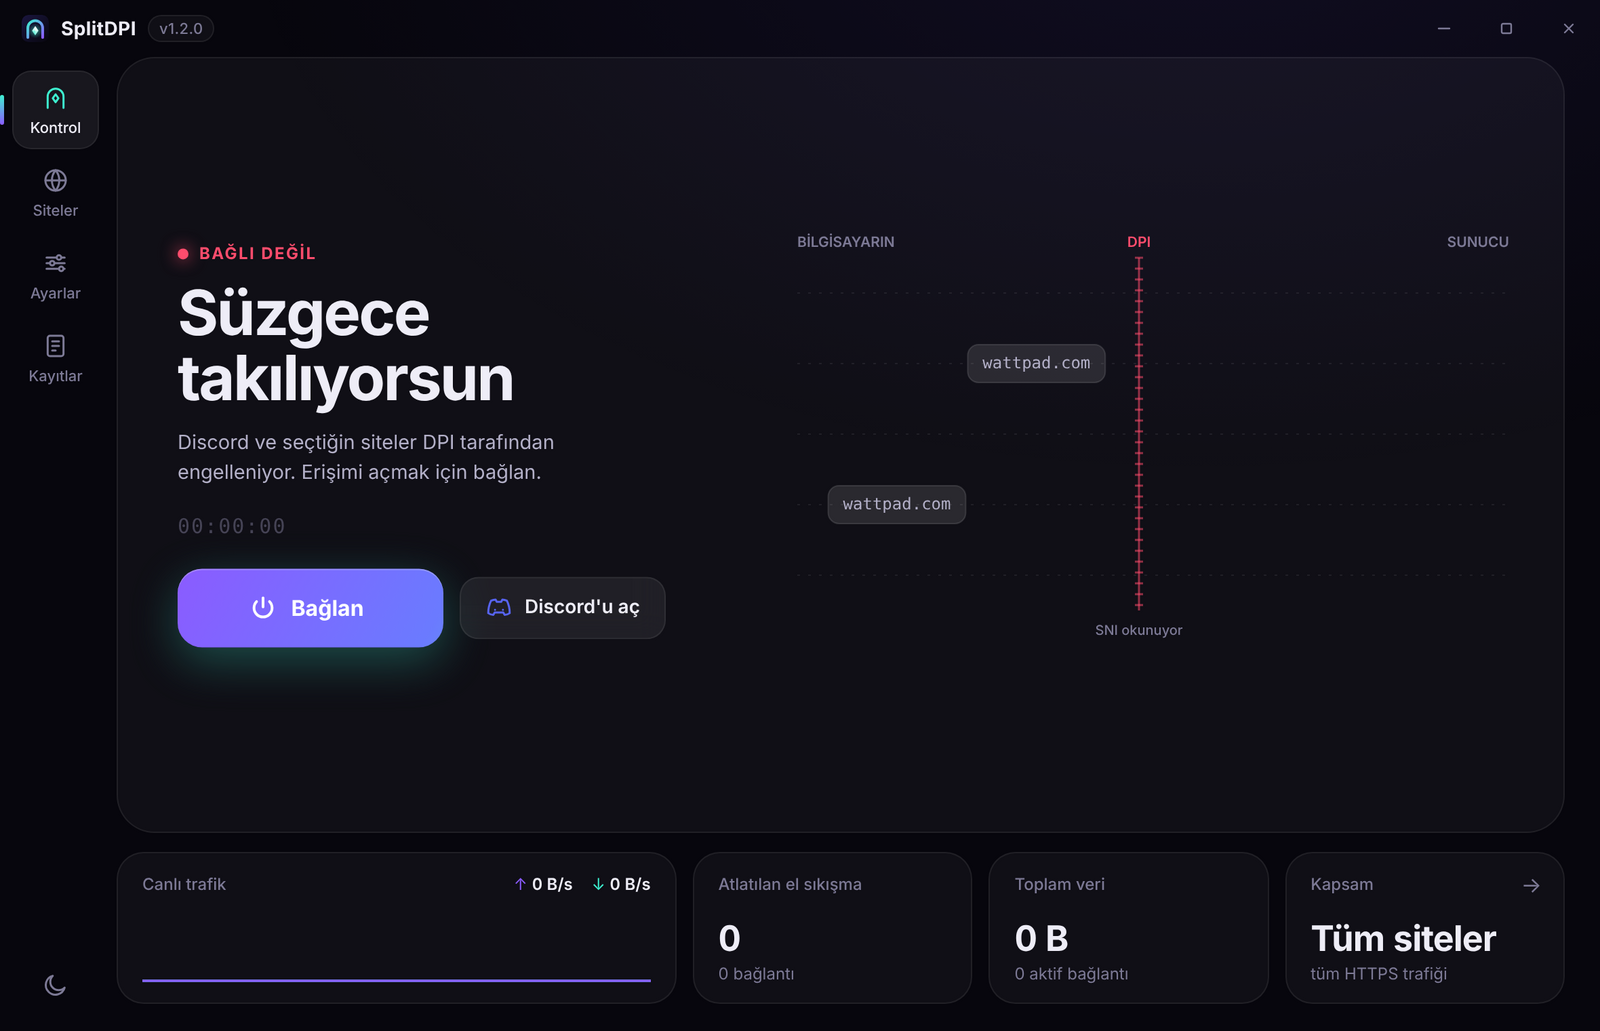
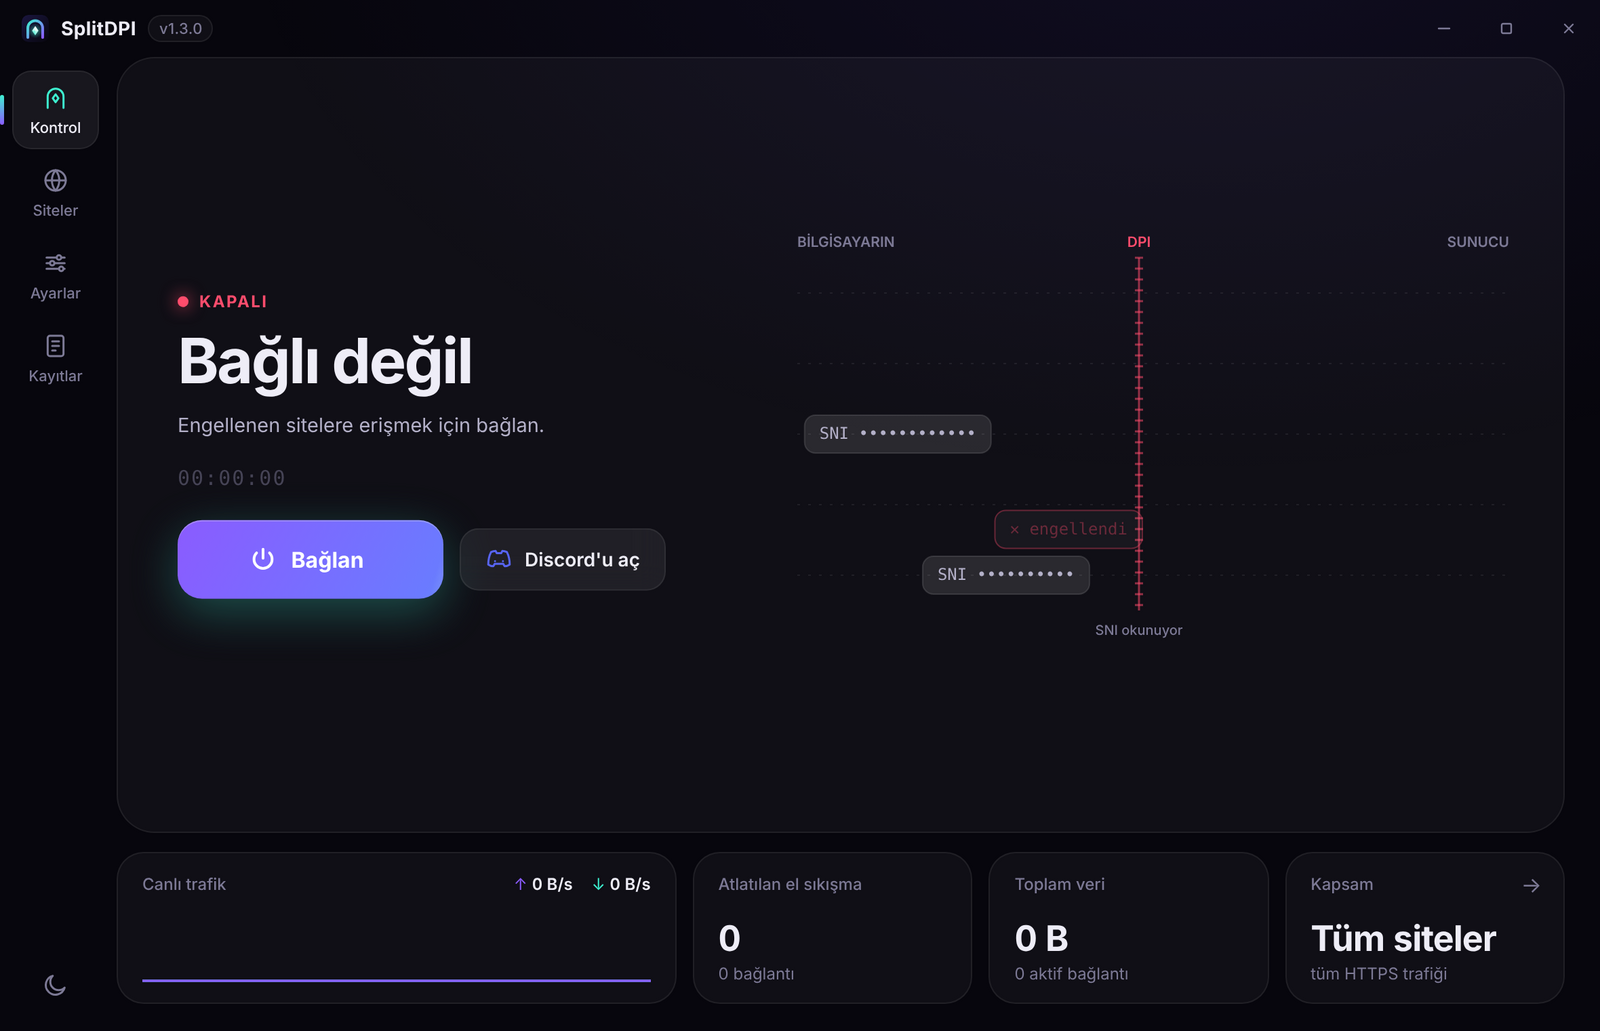
SplitDPI 1.3.0: gizlilik ve ilk açılış ekranı
- Akış animasyonu gerçek site adlarını göstermiyor; SNI maskelenmiş
- Arka plan servisi son siteleri diske yazmıyor
- İlk açılış tanıtım ekranı, sadeleştirilmiş durum metinleri
- Bağlantı kesilince istatistikler sıfırlanıyor
- README ekran görüntüleri güncellendi

Claude-Session: https://claude.ai/code/session_01FjVwS3HVaMjvGqbe8fJPk8

diff --git a/renderer/app.js b/renderer/app.js
@@ -59,12 +59,12 @@ function render() {
   document.body.classList.toggle('on', on);
   scene.setActive(on);
   document.body.classList.toggle('svc-mode', !!s.serviceMode);
-  $('#eyebrow').textContent = on ? (S.service ? 'Bağlı · arka plan servisi' : 'Bağlı') : 'Bağlı değil';
-  $('#title').innerHTML = on ? 'Erişim<br />açık' : 'Süzgece<br />takılıyorsun';
+  $('#eyebrow').textContent = on ? (S.service ? 'Etkin · arka plan servisi' : 'Etkin') : 'Kapalı';
+  $('#title').textContent = on ? 'Bağlı' : 'Bağlı değil';
   const scope = s.scope === 'all' ? 'tüm siteler' : `${S.domainCount} alan adı`;
   $('#sub').textContent = on
-    ? (S.service ? `Arka plan servisi çalışıyor. Bu pencereyi kapatsan da erişim açık kalır. Kapsam: ${scope}.` : `Trafiğin bölünerek DPI'nın gözünden kaçıyor. Kapsam: ${scope}.`)
-    : 'Discord ve seçtiğin siteler DPI tarafından engelleniyor. Erişimi açmak için bağlan.';
+    ? (S.service ? `Arka planda çalışıyor; bu pencereyi kapatsan da açık kalır. Kapsam: ${scope}.` : `Engellenen sitelere erişebilirsin. Kapsam: ${scope}.`)
+    : 'Engellenen sitelere erişmek için bağlan.';
   $('#connectLabel').textContent = on ? 'Bağlantıyı kes' : 'Bağlan';
   $('#sScope').textContent = s.scope === 'all' ? 'Tüm siteler' : S.domainCount;
   const names = (s.presets || []).map((k) => S.presets[k] && S.presets[k].name).filter(Boolean);
@@ -82,7 +82,7 @@ setInterval(tick, 1000);
 $('#connectBtn').onclick = async () => {
   document.body.classList.add('busy');
   try { S.running = await api.toggle(); } finally { document.body.classList.remove('busy'); }
-  if (!S.running) { resetSpark(); }
+  if (!S.running) resetStats();
   render();
 };
 
@@ -90,12 +90,17 @@ $('#discordBtn').onclick = async () => {
   try { toast(`${await api.launchDiscord()} SplitDPI üzerinden başlatılıyor`); } catch (e) { toast(cleanErr(e), true); }
 };
 
-api.on('state', (st) => { S.running = st.running; S.startedAt = st.startedAt; S.service = st.service; if (!st.running) resetSpark(); render(); });
-api.on('hosts', (list) => (list || []).forEach((h) => scene.addHost(h)));
+api.on('state', (st) => { S.running = st.running; S.startedAt = st.startedAt; S.service = st.service; if (!st.running) resetStats(); render(); });
 
 // ---------- İstatistik + canlı grafik ----------
 const HIST = 60;
 let upH = Array(HIST).fill(0), downH = Array(HIST).fill(0), last = null;
+// Bağlantı kesilince eski oturumun sayıları ekranda kalmasın
+function resetStats() {
+  resetSpark();
+  $('#sBypassed').textContent = '0'; $('#sConn').textContent = '0 bağlantı';
+  $('#sTotal').textContent = '0 B'; $('#sActive').textContent = '0 aktif bağlantı';
+}
 function resetSpark() { upH.fill(0); downH.fill(0); last = null; drawSpark(); $('#rUp').textContent = '0 B/s'; $('#rDown').textContent = '0 B/s'; }
 
 api.on('stats', (st) => {
@@ -153,7 +158,6 @@ api.on('log', (l) => {
   ul.prepend(li);
   while (ul.children.length > 400) ul.lastChild.remove();
   if (l.level === 'error') toast(l.msg, true);
-  if (l.level === 'ok') scene.addHost(l.msg.split(' → ')[0]);
 });
 $('#clearLogs').onclick = () => ($('#logs').innerHTML = '<li class="empty">Kayıtlar temizlendi.</li>');
 $$('#logFilter button').forEach((b) => (b.onclick = () => {
@@ -238,5 +242,13 @@ $$('[data-k]').forEach((el) => {
   $('#aboutVer').textContent = 'v' + st.version;
   fillSettings(); applyTheme(); renderPresets(); render();
   requestAnimationFrame(() => go('home'));
+  if (!st.settings.onboarded) {
+    $('#welcome').hidden = false;
+    $('#welcomeBtn').onclick = async () => {
+      $('#welcome').classList.add('out');
+      setTimeout(() => ($('#welcome').hidden = true), 350);
+      await save({ onboarded: true }, false);
+    };
+  }
   if (!st.discord) { $('#discordBtn').disabled = true; $('#discordBtn').title = 'Discord kurulu bulunamadı'; }
 })();

diff --git a/renderer/flow.js b/renderer/flow.js
@@ -1,11 +1,12 @@
 // Paket akışı görselleştirmesi.
-// Site adını taşıyan paketler soldan sağa DPI kapısına ilerler.
+// TLS ClientHello paketleri soldan sağa DPI kapısına ilerler. Gizlilik için gerçek site adı
+// hiçbir zaman gösterilmez; SNI alanı maskelenmiş olarak çizilir.
 // Kapalı: kapı SNI'yi okur, paket kırmızıya döner ve düşer.
 // Açık: paket, motorun gerçekten kestiği yerlerden (1. karakter + SNI ortası) parçalanır,
 //        kapıdan tanınmadan geçer ve karşıda yeniden birleşir.
 
-const SAMPLE = ['discord.com', 'gateway.discord.gg', 'cdn.discordapp.com', 'media.discordapp.net',
-  'roblox.com', 'wattpad.com', 'status.discord.com', 'images-ext-1.discordapp.net', 'rbxcdn.com'];
+// Maskelenmiş paket etiketi: "SNI ••••••••"
+const makeLabel = () => ({ head: 'SNI ', sni: '•'.repeat(6 + ((Math.random() * 7) | 0)) });
 
 const ROWS = 5;
 const SPEED = 95;            // px/sn
@@ -17,7 +18,6 @@ export function createFlow(canvas) {
   let on = false, mix = 0;   // mix: 0 kapalı → 1 açık (geçiş animasyonu)
   let colors = {};
   const packets = [];
-  const live = [];           // gerçek trafikten gelen adlar
   let spawnT = 0, gateFlash = 0, gateFlashBad = false, lastT = performance.now(), visible = true;
 
   function readColors() {
@@ -47,11 +47,13 @@ export function createFlow(canvas) {
 
   function spawn() {
     const g = geo();
-    const host = live.length && Math.random() < 0.85 ? live[(Math.random() * live.length) | 0] : SAMPLE[(Math.random() * SAMPLE.length) | 0];
+    const { head, sni } = makeLabel();
+    const host = head + sni;
     const free = [...Array(ROWS).keys()].filter((r) => !packets.some((p) => p.row === r && p.x < g.xs + 140));
     if (!free.length) return;
     const row = free[(Math.random() * free.length) | 0];
-    const mid = Math.max(2, Math.floor(host.length / 2));
+    // Motorla aynı kesim noktaları: ilk bayt ve SNI'nin ortası
+    const mid = head.length + Math.max(1, Math.floor(sni.length / 2));
     const parts = [host.slice(0, 1), host.slice(1, mid), host.slice(mid)];
     const widths = parts.map(measure);
     packets.push({ host, parts, widths, w: measure(host) + 22, row, x: g.xs - 20, split: 0, state: 'go', t: 0, alpha: 0, passed: false });
@@ -163,8 +165,8 @@ export function createFlow(canvas) {
       else if (done) { stroke = colors.a1; tc = colors.text; }
 
       if (p.split < 0.02 || blocked) {
-        const label = done ? '✓ ' + p.host : blocked ? '✕ ' + p.host : p.host;
-        const w = done || blocked ? p.w + measure('✓ ') : p.w;
+        const label = done ? '✓ ' + p.host : blocked ? '✕ engellendi' : p.host;
+        const w = done ? p.w + measure('✓ ') : blocked ? measure('✕ engellendi') + 22 : p.w;
         drawPill(blocked ? p.x - (w - p.w) : p.x, y + dropY, w, label, stroke, fill, tc, p.alpha * fade);
       } else {
         // Parçalar arasında boşluk aç (gerçek kesim noktaları)
@@ -198,9 +200,6 @@ export function createFlow(canvas) {
   return {
     setActive(v) { on = v; },
     setTheme() { requestAnimationFrame(readColors); },
-    addHost(h) {
-      if (!h || live.includes(h)) return;
-      live.push(h); if (live.length > 30) live.shift();
-    },
+
   };
 }

diff --git a/main.js b/main.js
@@ -27,7 +27,7 @@ app.setAppUserModelId('com.yigit.splitdpi');
 
 // ---------- Ayarlar ----------
 const BASE = { ...DEFAULTS, scope: 'all', presets: ['discord'], customDomains: [], theme: 'system', systemProxy: true,
-  autoStart: false, startMinimized: false, connectOnLaunch: false, serviceMode: false };
+  autoStart: false, startMinimized: false, connectOnLaunch: false, serviceMode: false, onboarded: false };
 delete BASE.domains;
 
 function loadSettings() {
@@ -57,7 +57,7 @@ const VALIDATORS = {
   presets: (v) => Array.isArray(v) && v.length <= 20 && v.every((k) => Object.prototype.hasOwnProperty.call(PRESETS, k)),
   customDomains: (v) => Array.isArray(v) && v.length <= 1000 && v.every((d) => typeof d === 'string' && DOMAIN_RE.test(d)),
 };
-for (const k of ['tlsRecordSplit', 'tcpSplit', 'systemProxy', 'autoStart', 'startMinimized', 'connectOnLaunch', 'serviceMode']) VALIDATORS[k] = (v) => typeof v === 'boolean';
+for (const k of ['tlsRecordSplit', 'tcpSplit', 'systemProxy', 'autoStart', 'startMinimized', 'connectOnLaunch', 'serviceMode', 'onboarded']) VALIDATORS[k] = (v) => typeof v === 'boolean';
 function sanitize(patch) {
   if (!patch || typeof patch !== 'object') throw new Error('Geçersiz ayar');
   const out = {};
@@ -83,9 +83,9 @@ if (SERVICE) runService(); else runApp();
 // SERVİS: penceresiz motor. Durumunu servis.json'a yazar, ayar değişikliklerini izler.
 // =====================================================================
 function runService() {
-  let proxy, startedAt = Date.now(), recent = [];
+  let proxy, startedAt = Date.now();
   const writeStatus = () => {
-    try { fs.writeFileSync(STATUS_FILE, JSON.stringify({ pid: process.pid, startedAt, port: settings.port, updated: Date.now(), stats: proxy.stats, recent })); } catch { /* yut */ }
+    try { fs.writeFileSync(STATUS_FILE, JSON.stringify({ pid: process.pid, startedAt, port: settings.port, updated: Date.now(), stats: proxy.stats })); } catch { /* yut */ }
   };
   const shutdown = () => {
     try { fs.unlinkSync(STATUS_FILE); } catch { /* yok */ }
@@ -94,11 +94,6 @@ function runService() {
 
   app.whenReady().then(async () => {
     proxy = new SplitProxy(engineOpts());
-    proxy.on('log', (l) => {
-      if (l.level !== 'ok') return;
-      const host = l.msg.split(' → ')[0];
-      if (!recent.includes(host)) { recent.push(host); if (recent.length > 20) recent.shift(); }
-    });
     try { await proxy.start(); } catch { app.exit(1); return; }
     if (settings.systemProxy) await system.enable(settings.port).catch(() => {});
     writeStatus();
@@ -161,7 +156,6 @@ function runApp() {
     const on = !!st;
     if (on) {
       send('stats', st.stats);
-      send('hosts', st.recent);
     }
     if (on !== lastSvc || (on && startedAt !== st.startedAt)) {
       lastSvc = on;

diff --git a/renderer/index.html b/renderer/index.html
@@ -33,9 +33,9 @@
         <div class="hero">
           <canvas id="scene"></canvas>
           <div class="hero-text">
-            <span class="eyebrow"><i class="dot"></i><span id="eyebrow">Bağlı değil</span></span>
-            <h1 class="title" id="title">Süzgece<br />takılıyorsun</h1>
-            <p class="sub" id="sub">Discord ve seçtiğin siteler DPI tarafından engelleniyor. Erişimi açmak için bağlan.</p>
+            <span class="eyebrow"><i class="dot"></i><span id="eyebrow">Kapalı</span></span>
+            <h1 class="title" id="title">Bağlı değil</h1>
+            <p class="sub" id="sub">Engellenen sitelere erişmek için bağlan.</p>
             <div class="timer" id="timer" aria-live="polite">00:00:00</div>
             <div class="cta">
               <button class="connect" id="connectBtn">
@@ -123,6 +123,25 @@
         <ul class="logs" id="logs"><li class="empty">Henüz kayıt yok. Bağlandığında burada görünecek.</li></ul>
       </section>
     </main>
+  </div>
+
+  <!-- İlk açılış -->
+  <div class="welcome" id="welcome" hidden>
+    <div class="welcome-card">
+      <img class="welcome-logo" src="../assets/icon.svg" alt="" />
+      <h1>SplitDPI</h1>
+      <p class="welcome-lead">DPI ile engellenen sitelere, trafiğini herhangi bir sunucuya göndermeden eriş.</p>
+      <ul class="welcome-list">
+        <li><svg viewBox="0 0 24 24"><rect x="3" y="4" width="18" height="12" rx="2"/><path d="M8 20h8M12 16v4"/></svg>
+          <div><b>Bilgisayarında çalışır</b><span>Trafik bir VPN'e ya da üçüncü bir tarafa yönlendirilmez, hız kaybı olmaz.</span></div></li>
+        <li><svg viewBox="0 0 24 24"><path d="M12 3l8 3v6c0 4.5-3.4 8.3-8 9-4.6-.7-8-4.5-8-9V6z"/><path d="M9 12l2 2 4-4"/></svg>
+          <div><b>Yönetici izni gerekmez</b><span>Sürücü yüklemez, sistem dosyalarına ve diğer uygulamalara dokunmaz.</span></div></li>
+        <li><svg viewBox="0 0 24 24"><path d="M2 12s3.5-7 10-7 10 7 10 7-3.5 7-10 7S2 12 2 12z"/><path d="M3 3l18 18"/></svg>
+          <div><b>Veri toplamaz</b><span>Telemetri, hesap ya da reklam yok. Kaynak kodu herkese açık.</span></div></li>
+      </ul>
+      <button class="connect welcome-btn" id="welcomeBtn">Başla</button>
+      <p class="welcome-note">Varsayılan olarak tüm sitelerde çalışır. Bunu Siteler ekranından değiştirebilirsin.</p>
+    </div>
   </div>
 
   <div class="toast" id="toast"></div>

diff --git a/renderer/styles.css b/renderer/styles.css
@@ -219,3 +219,22 @@ body.svc-mode .svc-dim { opacity: .4; pointer-events: none; }
   .cards { grid-template-columns: 1.4fr 1fr 1fr; }
   .cards .card.link { display: none; }
 }
+
+/* ---------- İlk açılış ---------- */
+.welcome { position: fixed; inset: 42px 0 0 0; z-index: 20; display: grid; place-items: center; background: color-mix(in srgb, var(--bg) 86%, transparent); backdrop-filter: blur(18px); animation: fade .4s var(--ease); }
+.welcome[hidden] { display: none; }
+.welcome.out { opacity: 0; transition: opacity .35s var(--ease); }
+.welcome-card { width: min(520px, 90vw); padding: 40px 40px 30px; border-radius: 26px; background: var(--surface-2); border: 1px solid var(--border-2); box-shadow: var(--shadow); text-align: center; animation: rise .55s var(--spring); }
+.welcome-logo { width: 64px; height: 64px; border-radius: 16px; }
+.welcome-card h1 { margin: 14px 0 6px; font-size: 30px; }
+.welcome-lead { color: var(--text-2); font-size: 14.5px; line-height: 1.55; max-width: 380px; margin: 0 auto 24px; }
+.welcome-list { list-style: none; padding: 0; text-align: left; display: flex; flex-direction: column; gap: 4px; margin-bottom: 26px; }
+.welcome-list li { display: flex; gap: 14px; align-items: flex-start; padding: 12px 14px; border-radius: 14px; }
+.welcome-list li:hover { background: var(--surface); }
+.welcome-list svg { flex-shrink: 0; width: 22px; height: 22px; color: var(--a1); margin-top: 1px; }
+.welcome-list b { display: block; font-size: 14px; font-weight: 600; }
+.welcome-list span { display: block; color: var(--muted); font-size: 12.5px; line-height: 1.5; margin-top: 2px; }
+.welcome-btn { width: 100%; }
+.welcome-note { margin-top: 14px; font-size: 12px; color: var(--muted); }
+@keyframes fade { from { opacity: 0; } }
+@keyframes rise { from { opacity: 0; transform: translateY(16px) scale(.98); } }

diff --git a/CHANGELOG.md b/CHANGELOG.md
@@ -1,5 +1,13 @@
 # Değişiklik günlüğü
 
+## 1.3.0
+
+- **Gizlilik:** Ana ekrandaki akış animasyonu artık gerçek site adlarını göstermiyor; SNI alanı maskelenmiş olarak çiziliyor. Ekran paylaşırken ziyaret ettiğin siteler görünmez.
+- Arka plan servisi son bağlanılan siteleri artık diske yazmıyor.
+- İlk açılışta kısa bir tanıtım ekranı.
+- Ana ekran metinleri sadeleştirildi: **Bağlı** / **Bağlı değil**.
+- Düzeltme: Bağlantı kesildiğinde önceki oturumun istatistikleri ekranda kalıyordu.
+
 ## 1.2.2
 
 - DNS kaydı olmayan adresler (ör. `*.dc-telemetry.net` ölçüm adresleri) artık uyarı olarak değil, bilgi satırı olarak gösteriliyor.
